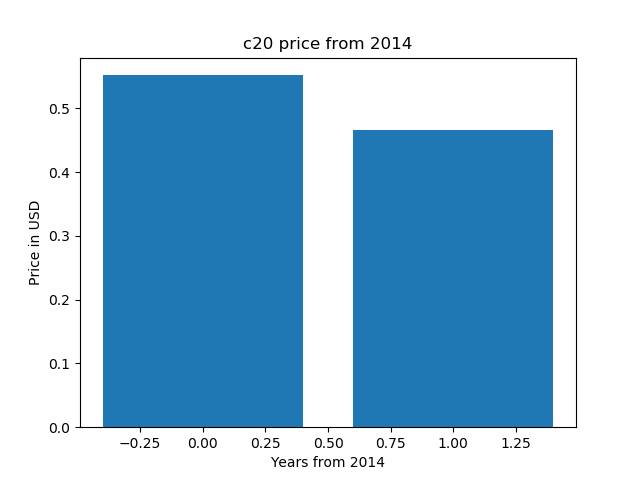
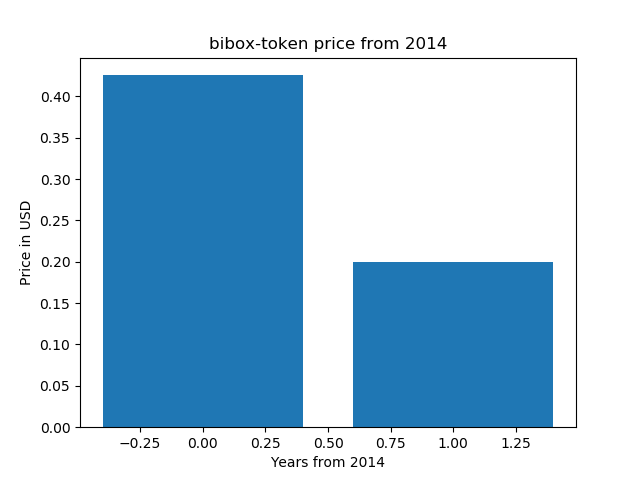
first commit

diff --git a/example.py b/example.py
@@ -10,7 +10,7 @@ from time import gmtime, strftime
 import matplotlib.pyplot as plt
 
 enddate = strftime("%Y%m%d", gmtime())
-r  = requests.get("https://coinmarketcap.com/currencies/c20/historical-data/?start=20140101&end={0}".format(enddate))
+r  = requests.get("https://coinmarketcap.com/currencies/bibox-token/historical-data/?start=20140101&end={0}".format(enddate))
 data = r.text
 
 soup = BeautifulSoup(data, "html.parser")
@@ -44,7 +44,7 @@ print(x)
 
 x = list(range(0, len(prices)))
 
-plt.title('c20 price from 2014')
+plt.title('bibox-token price from 2014')
 plt.ylabel('Price in USD')
 plt.xlabel('Years from 2014')
 plt.bar(x, prices)

diff --git a/README.md b/README.md
@@ -1,6 +1,6 @@
-# c20 price chart 
+# bibox-token price chart 
 
-c20 price chart (matplotlib, python)
+bibox-token price chart (matplotlib, python)
 
 https://pythonprogramminglanguage.com
 
